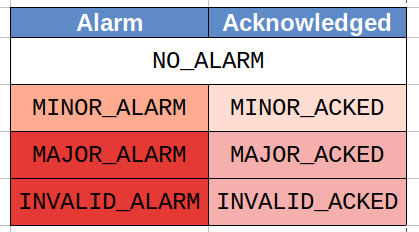
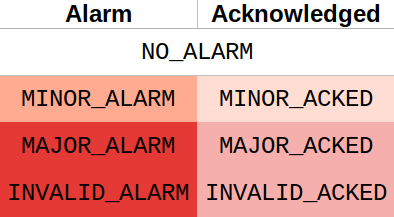
Updates to alarm handler documentation

diff --git a/ReactApp/src/docs/alarmHandler/serverConventions.md b/ReactApp/src/docs/alarmHandler/serverConventions.md
@@ -4,7 +4,7 @@ These conventions will be refined and optimised as the alarm handler and server 
 
 <br/>
 **C1. Acknowledgement of alarms:**<br/>
-An unlatched alarm is always acknowledged to its corresponding \_ACKED state as per Fig 2 above. A latched alarm is always acknowledged to the \_ACKED state of its current alarm severity level. The table below shows this convention in practice. 
+An unlatched alarm is always acknowledged to its corresponding \_ACKED state as per Table 2 above. A latched alarm is always acknowledged to the \_ACKED state of its current alarm severity level. The table below shows this convention in practice. 
 
 <center>
 | Current alarm status | Current alarm severity | When acknowledged |
@@ -34,22 +34,22 @@ The last alarm acknowledge time is updated whenever an alarm is acknowledged fro
 
 <br/>
 **C2. Disabled alarms:**<br/>
-Disabled alarms behave like unlatched alarms. The alarm status, last alarm time and alarm log will be updated accordingly. However, disabled alarms will not propagate their severity up to their subAreas or areas.
+Disabled alarms behave like unlatched alarms. The alarm status, last alarm value and last alarm time will be updated accordingly. However, disabled alarms will not propagate their severity up to their subAreas or areas nor are their alarm events logged.
 
 <br/>
 **C3. Latched alarms:**<br/>
-A latched alarm will always latch on its worst alarm severity. Its last alarm time timestamp will also latch the time when its worst alarm was triggered. The table below shows this convention in practice.
+A latched alarm will always latch on its worst alarm severity. Its last alarm value and last alarm time will also latch the value and time when its worst alarm was triggered. The table below shows this convention in practice.
 
 <center>
-| Current alarm status | New alarm severity | New alarm status | Update LAST ALM TIME? |
-| -------------------- | ------------------ | ---------------- | --------------------- |
-| MAJOR\_ALARM         | MAJOR\_ALARM       | MAJOR\_ALARM     | No                    |
-| MINOR\_ALARM         | MAJOR\_ALARM       | MAJOR\_ALARM     | Yes                   |
-| MAJOR\_ALARM         | NO\_ALARM          | MAJOR\_ALARM     | No                    |
+| Current alarm status | New alarm severity | New alarm status | Update LAST ALM VAL and TIME? |
+| -------------------- | ------------------ | ---------------- | ----------------------------- |
+| MAJOR\_ALARM         | MAJOR\_ALARM       | MAJOR\_ALARM     | No                            |
+| MINOR\_ALARM         | MAJOR\_ALARM       | MAJOR\_ALARM     | Yes                           |
+| MAJOR\_ALARM         | NO\_ALARM          | MAJOR\_ALARM     | No                            |
 </center>
 
-**C3.1 Last alarm time:**<br/>
-The last alarm time is updated whenever an alarm is triggered. For an unlatched alarm this time is updated on transition to any new alarm severity. For a latched alarm this time is only updated on transition to a worse alarm severity.
+**C3.1 Last alarm value and last alarm time:**<br/>
+The last alarm value and last alarm time are updated whenever an alarm is triggered. For an unlatched alarm this value and time is updated on transition to any new alarm severity. For a latched alarm this value and time is only updated on transition to a worse alarm severity.
 
 <br/>
 **C4. Propagation of alarms up to subAreas and areas:**<br/>

diff --git a/ReactApp/src/docs/alarmHandler/alarmAreas.md b/ReactApp/src/docs/alarmHandler/alarmAreas.md
@@ -1,0 +1,44 @@
+The **ALARM AREAS** section of the UI lists all the areas and subAreas of the alarm handler. **This serves as the primary method of navigating the different areas and subAreas within the alarm handler.**
+
+Clicking (left click) on any area/subArea in the list updates the **ALARM TABLE** and the **ALARM LOG** to reflect the selected area/subArea.
+
+Each area can be expanded/contracted to reveal/hide the subAreas within that area as shown below.
+
+|                                        BEAMLINE DEMO Area (subAreas hidden)                                         |                                       BEAMLINE DEMO Area (subAreas shown)                                       |
+| :-----------------------------------------------------------------------------------------------------------------: | :-------------------------------------------------------------------------------------------------------------: |
+| <img src="img/alarmHandler/alarmSetup_AlarmList_Contracted.png" alt="alarmSetup_AlarmList_Contracted" width="80%"/> | <img src="img/alarmHandler/alarmSetup_AlarmList_Expanded.png" alt="alarmSetup_AlarmList_Expanded" width="80%"/> |
+<center>*Fig 2: Area with subAreas hidden or shown*</center>
+
+<br/>
+**Colour scheme**
+
+The colour of each area/subArea in the **ALARM AREAS** list reflects the worst severity of the pvs that form part of that area/subArea. A disabled area/subArea is reflected with a grey colour. This follows the colour scheme used throughout the alarm handler.
+
+<br/>
+**Acknowledging alarms**
+
+Alarms can be acknowledged by right clicking the relevant area/subArea and clicking on the acknowledge menu item, as shown below. This acknowledges all the alarms in that area/subArea. Individual alarms can be acknowledged using the **ALARM TABLE** which is described in the next section.
+
+<center><img src="img/alarmHandler/alarmSetup_AlarmList_RightClick.png" alt="alarmSetup_AlarmList_RightClick" width="35%"/></center>  
+<center>*Fig 3: Acknowledging alarms using ALARM AREAS list*</center>
+<br/><br/>
+
+<br/>
+**Enabling/disabling areas or subAreas**
+
+Areas or subAreas can be enabled/disabled by right clicking the relevant area/subArea and clicking on the enable/disable menu item. This action enables/disables all the alarms in that area/subArea. Individual alarms can be enabled/disabled using the **ALARM TABLE** which is described in the next section.
+
+A disabled area/subArea is reflected with a grey colour as shown below. This follows the colour scheme used throughout the alarm handler.
+
+<center><img src="img/alarmHandler/alarmSetup_AlarmList_Disabled.png" alt="alarmSetup_AlarmList_Disabled" width="90%"/></center>  
+<center>*Fig 4: BUILDING DEMO area with disabled HVAC subArea*</center>
+<br/><br/>
+
+<br/>
+**Global actions**
+
+The **ALARM AREAS** section also has a global icon (*world icon* on the top left) that a user can click (left click) to select all the areas (complete alarm handler). Right clicking this icon enables a user to acknowledge or enable/disable all the areas. This is shown below.
+
+<center><img src="img/alarmHandler/alarmSetup_AlarmList_Global.png" alt="alarmSetup_AlarmList_Global" width="35%"/></center>  
+<center>*Fig 5: Global alarm handler actions*</center>
+<br/><br/>

diff --git a/ReactApp/src/docs/alarmHandler/alarmSetup.md b/ReactApp/src/docs/alarmHandler/alarmSetup.md
@@ -1,12 +1,12 @@
 The alarm setup view comprises of three areas - the **ALARM AREAS** menu list, the **ALARM TABLE** and the **ALARM LOG**.
 
-<img src="img/alarmHandler/alarmSetup.png" alt="alarmSetup" width="100%"/>
-<center>*Fig 3: Alarm Handler Alarm Setup View*</center>
+<img src="img/alarmHandler/alarmSetup_new.png" alt="alarmSetup" width="100%"/>
+<center>*Fig 1: Alarm Handler Alarm Setup View*</center>
 <br/><br/>
 
-The **ALARM TABLE** and the **ALARM LOG** are on expansion panels and can be expanded or contracted as desired.
+The **ALARM TABLE** and the **ALARM LOG** are on expansion panels and can be expanded or contracted as desired, this is shown below.
 
-ALARM TABLE expanded            |  ALARM LOG expanded
-:-------------------------:|:-------------------------:
-!<img src="img/alarmHandler/alarmSetup_ExpansionPanel1.png" alt="alarmSetup_ExpansionPanel1" width="100%"/>  |  !<img src="img/alarmHandler/alarmSetup_ExpansionPanel2.png" alt="alarmSetup_ExpansionPanel2" width="100%"/>
-<center>*Fig 4: Alarm Handler Alarm Setup View*</center>
+|                                              ALARM TABLE expanded                                              |                                               ALARM LOG expanded                                               |
+| :------------------------------------------------------------------------------------------------------------: | :------------------------------------------------------------------------------------------------------------: |
+| <img src="img/alarmHandler/alarmSetup_ExpansionPanel1_new.png" alt="alarmSetup_ExpansionPanel1" width="100%"/> | <img src="img/alarmHandler/alarmSetup_ExpansionPanel2_new.png" alt="alarmSetup_ExpansionPanel2" width="100%"/> |
+<center>*Fig 2: ALARM TABLE or ALARM LOG expanded*</center>

diff --git a/ReactApp/src/docs/alarmHandler/serverLogging.md b/ReactApp/src/docs/alarmHandler/serverLogging.md
@@ -1,2 +1,16 @@
+The table below lists the alarm actions/events and parameters that the alarm server logs. **Note: As per convention C2, the alarm server does not log any alarm events of disabled alarms.**
+
+<center>
+| Action/Event             | Timestamp | Alarm Status | PV Value | Username |
+| ------------------------ | :-------: | :----------: | :------: | :------: |
+| Alarm triggered          |     X     |      X       |    X     |          |
+| Alarm acknowledged       |     X     |      X       |          |    X     |
+| Alarm demoted            |     X     |      X       |          |          |
+| PV enabled/disabled      |     X     |              |          |          |
+| SubArea enabled/disabled |     X     |              |          |          |
+| Area enabled/disabled    |     X     |              |          |          |
+</center>
+<center>*Table 3: Actions and events logged by alarm server*</center>
+<br/><br/>
 
 The remainder of the user guide addresses the alarm handler user interface. This is comprised of two views - an alarm setup view and a user notification view.

diff --git a/ReactApp/src/docs/alarmHandler/implementConventions.md b/ReactApp/src/docs/alarmHandler/implementConventions.md
@@ -14,6 +14,12 @@ The alarm handler maps the EPICS database record alarm severity (SEVR) field to 
 In addition to this, the alarm handler also has three acknowledge statuses to indicate when an alarm has been acknowledged. An alarm can thus be in one of seven (7) states as depicted in the table below. Each state is also colour coded (changing the theme can result in alarm colour variations).
 
 <center>
+<img src="img/alarmHandler/Alarm_colours.png" alt="alarmSetup_ExpansionPanel1" width="30%"/>
+</center>
+<center>*Table 2: Alarm states and colours*</center>
+<br/><br/>
+
+<center>
 | Alarm          | Acknowledged   |
 | -------------- | -------------- |
 | NO\_ALARM      | NO\_ALARM      |
